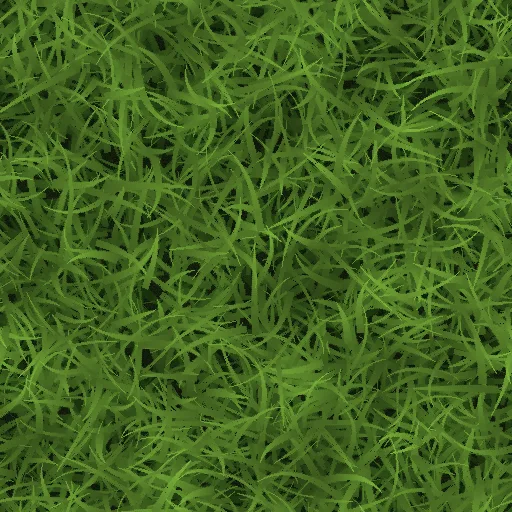
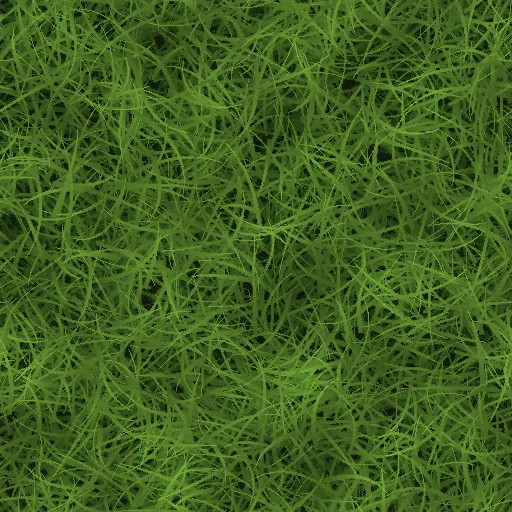
fix: a grama anda com a estrada, e a orla vira debrum
Dois defeitos da primeira versão. O padrão era pintado sem a translação da
câmera, então a folha ficava presa ao vidro: a paisagem deslizava por baixo
de um gramado imóvel. Agora a textura é pintada no mesmo sistema do traçado
e cada folha fica presa ao ponto do chão onde nasceu.

E a faixa tinha quase uma pista inteira de grama de cada lado — competia com
a estrada em vez de debruá-la. Estreitada para orla (1,5× contra 2,24×), com
a folha também mais fina: em vez de fita larga, folha longa e estreita, e
mais folhas para repor a densidade que a largura deixou de dar.

`paintGrassBand` sai de dentro de `createHomeRoad` porque a ordem das
operações aqui é toda frágil — máscara, recorte, textura, banho — e cada
passo fora de lugar produz um defeito diferente e mudo. Com o contexto por
parâmetro, um dublê confere essa ordem.

diff --git a/outputs/js/home/home-road.js b/outputs/js/home/home-road.js
@@ -157,11 +157,15 @@ export const PAVEMENT_MASK_RATIO = 0.92;
 export function grassBandWidths(roadWidth) {
   const road = Math.max(72, Number(roadWidth) || 72);
   return {
-    outer: road * 2.24,
+    // A 2,24 sobrava quase uma pista inteira de grama de cada lado e a faixa
+    // competia com a estrada em vez de debruar. O que se quer é acostamento:
+    // uma orla estreita, larga o bastante para a folha existir e curta o
+    // bastante para o caminho continuar sendo o assunto.
+    outer: road * 1.5,
     inner: road * 0.98,
     // A borda de fora esfuma na terra; a de dentro some sob a pedra e por isso
     // pode ser mais curta.
-    outerFeather: Math.max(10, road * 0.2),
+    outerFeather: Math.max(8, road * 0.12),
     innerFeather: Math.max(5, road * 0.08),
   };
 }
@@ -207,6 +211,82 @@ export function grassBladeGeometry({ point, tuft, baseRadius, sway = 0 }) {
     control: { x: ctrlX, y: ctrlY },
     tip: { x: tipX, y: tipY },
   };
+}
+
+/** Banho quente aplicado por cima da grama, para ela caber na paleta sépia. */
+export const GRASS_TINT = "rgba(150, 124, 74, .26)";
+
+/**
+ * Pinta a faixa de grama numa tela auxiliar.
+ *
+ * Recebe o contexto em vez de fechá-lo dentro de `createHomeRoad` porque a
+ * ordem das operações aqui é toda ela frágil — máscara, recorte, textura,
+ * banho — e cada passo trocado de lugar produz um defeito diferente e mudo.
+ * Com o contexto por parâmetro, um dublê consegue conferir essa ordem.
+ */
+export function paintGrassBand(target, {
+  path,
+  band,
+  pattern,
+  width = 0,
+  height = 0,
+  ratio = 1,
+  translateX = 0,
+  translateY = 0,
+} = {}) {
+  if (!target || !path || !band || !pattern) return;
+
+  target.setTransform(ratio, 0, 0, ratio, 0, 0);
+  target.clearRect(0, 0, width, height);
+
+  // Máscara: o corredor inteiro borrado, com a pista apagada de dentro dele.
+  target.save();
+  target.translate(translateX, translateY);
+  target.lineJoin = "round";
+  target.lineCap = "round";
+
+  target.filter = `blur(${band.outerFeather.toFixed(1)}px)`;
+  target.strokeStyle = "#fff";
+  target.lineWidth = band.outer;
+  target.stroke(path);
+
+  target.globalCompositeOperation = "destination-out";
+  target.filter = `blur(${band.innerFeather.toFixed(1)}px)`;
+  target.lineWidth = band.inner;
+  target.stroke(path);
+
+  target.filter = "none";
+  target.restore();
+
+  /*
+   * A textura é presa ao CHÃO, não à tela.
+   *
+   * O padrão nasce na origem do sistema de coordenadas atual — pintar sem a
+   * translação da câmera prendia a grama ao vidro: a estrada rolava e a folha
+   * ficava parada no mesmo pixel, como se a paisagem deslizasse por baixo de um
+   * gramado imóvel. Com a mesma translação do traçado, cada folha fica presa ao
+   * ponto do chão onde nasceu e acompanha a estrada.
+   *
+   * O retângulo é recuado pela translação justamente para continuar cobrindo a
+   * tela inteira depois de o sistema ter se deslocado.
+   *
+   * `source-in` mantém só o que está dentro da máscara, então a faixa herda a
+   * queda suave das duas bordas em vez de terminar em corte reto.
+   */
+  target.save();
+  target.translate(translateX, translateY);
+  target.globalCompositeOperation = "source-in";
+  target.fillStyle = pattern;
+  target.fillRect(-translateX, -translateY, width, height);
+  target.restore();
+
+  // Banho quente: o ladrilho é um verde de meio-dia e a travessia é sépia. Sem
+  // ele a faixa lê como decalque colado ao lado da pedra. `source-atop` mantém
+  // o recorte já conquistado, então o banho não vaza para fora da faixa.
+  target.globalCompositeOperation = "source-atop";
+  target.fillStyle = GRASS_TINT;
+  target.fillRect(0, 0, width, height);
+  target.globalCompositeOperation = "source-over";
 }
 
 export function createHomeRoad(canvas, { regions = [], viewport = {} } = {}) {
@@ -331,47 +411,16 @@ export function createHomeRoad(canvas, { regions = [], viewport = {} } = {}) {
    */
   function drawGrassBand(roadWidth, translateX, translateY) {
     if (!shoulder || !grassTexture) return;
-    const band = grassBandWidths(roadWidth);
-
-    shoulderContext.setTransform(ratio, 0, 0, ratio, 0, 0);
-    shoulderContext.clearRect(0, 0, width, height);
-    shoulderContext.save();
-    shoulderContext.translate(translateX, translateY);
-    shoulderContext.lineJoin = "round";
-    shoulderContext.lineCap = "round";
-
-    shoulderContext.filter = `blur(${band.outerFeather.toFixed(1)}px)`;
-    shoulderContext.strokeStyle = "#fff";
-    shoulderContext.lineWidth = band.outer;
-    shoulderContext.stroke(path);
-
-    shoulderContext.globalCompositeOperation = "destination-out";
-    shoulderContext.filter = `blur(${band.innerFeather.toFixed(1)}px)`;
-    shoulderContext.lineWidth = band.inner;
-    shoulderContext.stroke(path);
-
-    shoulderContext.filter = "none";
-    shoulderContext.restore();
-
-    // `source-in` pinta a textura só onde a máscara tem alpha, então a faixa
-    // herda a queda suave das duas bordas em vez de terminar em corte reto.
-    // O preenchimento é feito sem a translação da câmera de propósito: o padrão
-    // fica preso à tela, e não ao traçado, o que impede a textura de escorregar
-    // dentro da própria faixa enquanto a estrada rola.
-    shoulderContext.globalCompositeOperation = "source-in";
-    shoulderContext.fillStyle = grassTexture;
-    shoulderContext.fillRect(0, 0, width, height);
-
-    // Banho quente por cima da grama.
-    //
-    // O ladrilho é um verde de meio-dia e a travessia inteira é sépia: sem este
-    // banho a faixa lê como decalque colado sobre a paisagem, viva demais ao
-    // lado da pedra. `source-atop` mantém o recorte já conquistado, então o
-    // banho não vaza para fora da faixa.
-    shoulderContext.globalCompositeOperation = "source-atop";
-    shoulderContext.fillStyle = "rgba(150, 124, 74, .26)";
-    shoulderContext.fillRect(0, 0, width, height);
-    shoulderContext.globalCompositeOperation = "source-over";
+    paintGrassBand(shoulderContext, {
+      path,
+      band: grassBandWidths(roadWidth),
+      pattern: grassTexture,
+      width,
+      height,
+      ratio,
+      translateX,
+      translateY,
+    });
 
     context.save();
     context.setTransform(1, 0, 0, 1, 0, 0);
@@ -560,8 +609,9 @@ export function createHomeRoad(canvas, { regions = [], viewport = {} } = {}) {
     if (grassTexture?.setTransform && typeof DOMMatrix === "function") {
       // Folha menor que a pedra: em escala 1 uma única folha tinha o
       // comprimento de meia pista e a faixa lia como mato alto, não como
-      // acostamento visto de longe.
-      grassTexture.setTransform(new DOMMatrix().scale(.34));
+      // acostamento visto de longe. A 0,34 ainda lia grossa ao lado do
+      // paralelepípedo, que é a referência de escala mais próxima que o olho tem.
+      grassTexture.setTransform(new DOMMatrix().scale(.26));
     }
     renderedProgress = -1;
     queueDraw();
